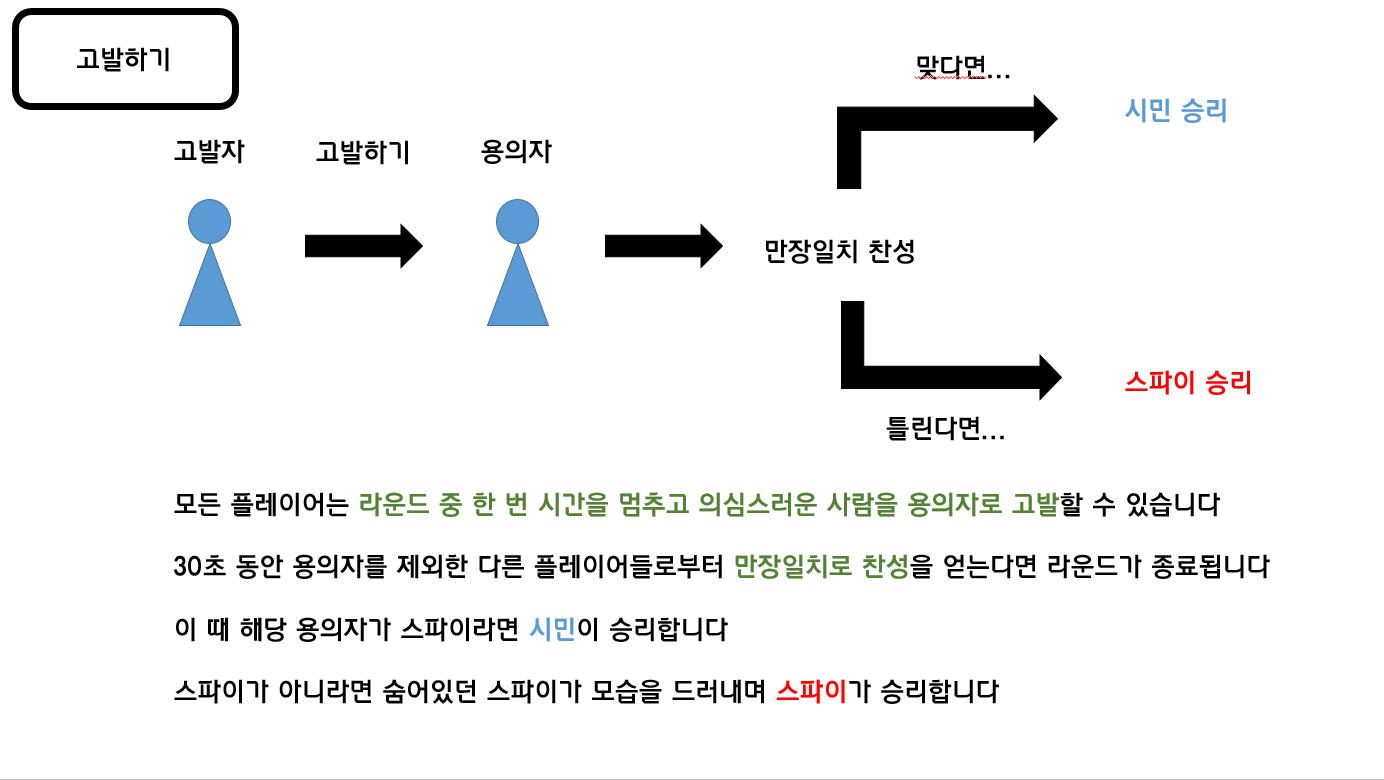
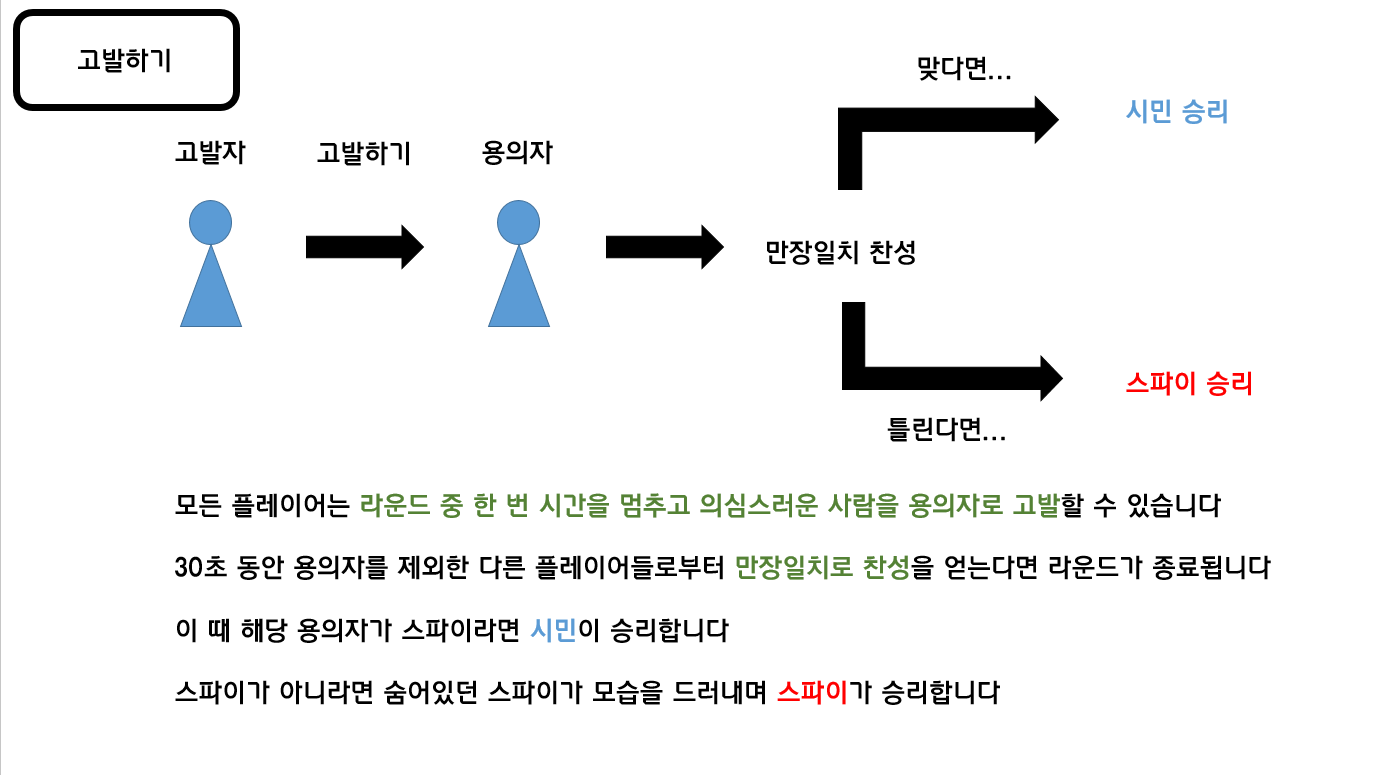
STYLE: 전체적인 style 변경

diff --git a/frontend/src/components/games/Spyfall.vue b/frontend/src/components/games/Spyfall.vue
@@ -81,27 +81,15 @@
                 <img src="../../assets/Spy.jpg" alt="spy">
               </div>
               <button class="paper-btn btn-secondary" color="primary" style="width:100%" @click="spyfall" v-if="isSpy" popover-right="장소를 추리하여 게임을 끝냅니다">스파이폴</button>
-              <!-- <button @click="testclick">div 활성화 버튼</button>
-              <div class="row flex-spaces" >                 
-                <input class="alert-state" id="alert-1" type="checkbox">
-                <div id="testalert" class="alert alert-secondary dismissible" style="display:none" >
-                  투표가 완료되었습니다.
-                  <label class="btn-close" for="alert-1">X</label>
-                </div>
-              </div> -->
-              
               <div>                
                 <v-dialog v-model="dialog" persistent max-width="1000px">
-                  <v-card>
-                    <v-card-title>
-                      <span class="text-h5">누가 스파이일까요?</span>
-                    </v-card-title>              
+                  <v-card>         
                       <v-container class="vote">
                         <v-row class="vote_row">
                           <v-col cols="12">
                           </v-col>
                           <v-col cols="5" class="prosecutor">
-                          <div class="video_name"><div class="alert alert-secondary">고발자</div></div>
+                          <div class="video_name"><div class="alert alert-secondary" popover-top="용의자를 고발하였습니다">고발자</div></div>
                           <div v-if="selectPlayer" class="child-borders">
                             <ov-video :stream-manager="selectPlayer"/>
                           </div>
@@ -113,7 +101,7 @@
                         </div>                      
                         </v-col>
                         <v-col cols="5" class="suspect">      
-                          <div class="video_name"><div class="alert alert-danger">용의자</div></div>                  
+                          <div class="video_name"><div class="alert alert-danger" popover-top="용의자로 선택되었습니다">용의자</div></div>                  
                           <div v-if="votePlayer" class="child-borders">
                             <ov-video :stream-manager="votePlayer"/>
                           </div>
@@ -144,7 +132,21 @@
                     </v-container> 
                   </v-card>
                 </v-dialog>
-              </div>             
+                </div>  
+                <button class="paper-btn btn-success" @click="openinfo = true" style="width:100%; margin-top:20px">게임설명</button>
+                <v-dialog class="infodialog"
+                  v-model="openinfo"
+                  persistent
+                  max-width="750px"                 
+                >
+                  <v-card  class="scrollx" height="500px" style="padding-right:10px">   
+                    <img src="@/assets/description_image/spyfall/스파이폴설명1.png" alt="">
+                    <img src="@/assets/description_image/spyfall/스파이폴설명2.png" alt="">
+                    <img src="@/assets/description_image/spyfall/스파이폴설명3.png" alt="">
+                    <img src="@/assets/description_image/spyfall/스파이폴설명4.png" alt="">
+                    <button class="paper-btn btn-success" style="align-self:center" @click="openinfo = false">닫기</button>
+                  </v-card>
+                </v-dialog>
             </v-col>
           </v-row>
         </v-container>
@@ -170,7 +172,7 @@ export default {
       job: null,
       place: null,
       placeSrc: null,
-      MMSS: new Date(this.timerCount*1000).toISOString().substr(14, 5),
+
       timerEnabled: true,
       timerCount: 30,
       votetimeCnt: 30,
@@ -186,7 +188,10 @@ export default {
       isSpy: false,
       // spyName: null,
       spyPlayer : null,
-      // dialog : false,
+      openinfo: false,
+      desc: [
+          "p1","p2","p3", "p4"
+        ],
 		}
 	},
 
@@ -199,7 +204,7 @@ export default {
   components: {
 		OvVideo,
     SpyfallEnd,
-    SpyfallStart
+    SpyfallStart,
 	},
 	computed: {
 		...mapState([
@@ -222,6 +227,9 @@ export default {
       }
       return null
     },
+    MMSS () {
+      return new Date(this.timerCount*1000).toISOString().substr(14, 5)      
+    }
 	},
 
 	methods: {
@@ -561,7 +569,6 @@ video {
     padding: 10px;
     width: 100%;
     font-size: 20px;
-    font-family: 'Patrick Hand SC';
     text-align: center;
     height: 52px;
     margin: 0;
@@ -762,5 +769,23 @@ video {
 
 #time_cnt {
   text-align: center;
+}
+
+.scrollx {
+  overflow: scroll;
+  /* IE scroll 숨김 */
+  -ms-overflow-style: none;
+  position: relative;
+}
+
+.scrollx::-webkit-scrollbar { 
+  width: 0 !important;
+  display: none; 
+}
+.scrollx  button {
+width: 70px;
+position: relative;
+top: 0;
+left: 92%;
 }
 </style>

diff --git a/frontend/src/components/descriptions/SpyfallDescription.vue b/frontend/src/components/descriptions/SpyfallDescription.vue
@@ -1,8 +1,10 @@
 <template>
-  <v-carousel v-model="model">
+  <v-carousel hide-delimiters v-model="model" 
+  :show-arrows="true"
+  class="SpyfallInfo border" height="567px">
     <v-carousel-item
       v-for="(num, i) in desc"
-      :key="num"
+      :key="num"      
     >
         <v-row
           class="fill-height"
@@ -10,10 +12,9 @@
           justify="center"
         >
           <div>
-            <img :src="require(`@/assets/description_image/spyfall/` + `스파이폴설명`+(i+1)+`.png`)" width="100%"/>
+            <img :src="require(`@/assets/description_image/spyfall/` + `스파이폴설명`+(i+1)+`.png`)" class="spyfallinfoimg"/>
           </div>
         </v-row>
-
     </v-carousel-item>
   </v-carousel>
 </template>
@@ -23,17 +24,9 @@ export default {
   name: "SpyfallDescription",
   data () {
       return {
-        colors: [
-          'white',
-          'white',
-          'white',
-          'white',
-          'white',
-          'white',
-        ],
         model: 0,
         desc: [
-          "p1","p2","p3"
+          "p1","p2","p3", "p4"
         ],
       }
     },
@@ -44,6 +37,19 @@ export default {
 }
 </script>
 
-<style>
-
+<style scoped>
+.SpyfallInfo {
+  border-bottom-left-radius: 15px 255px;
+    border-bottom-right-radius: 225px 15px;
+    border-top-left-radius: 23px 15px;
+    border-top-right-radius: 15px 225px;
+}
+.spyfallinfoimg {
+  height: 567px;
+  margin-left: 10px;
+  margin-top: 5px;
+  border: 0;
+  border-radius: 0;
+  border-top-left-radius: 22px 15px;      
+}
 </style>

diff --git a/frontend/src/components/Video/UserVideo.vue b/frontend/src/components/Video/UserVideo.vue
@@ -3,6 +3,7 @@
 	<div v-if="streamManager" style="display: flex; align-items: center;" class="video_div child-borders">
 		<!-- <ov-video :stream-manager="streamManager" v-if="answerPlayer != streamManager && questionPlayer != streamManager && firstQuestionPlayer != streamManager"/> -->
 		<ov-video :stream-manager="streamManager"/>
+		<div class="pname"><p>{{ clientData }}</p></div>
 		<div v-if="gameSelected == 'Spyfall' && start" class="btn1"><button class="paper-btn" @click="answerSelect" :disabled="isMyself || !(isAnswerPlayer || isFirstQuestionPlayer) || isQuestionPlayer" popover-top="질문할 사람을 선택하세요">지목하기</button></div>
 		<div v-if="gameSelected == 'Spyfall' && start" class="btn2" ><button class="paper-btn" @click="voteSelect" :disabled="isMyself || voteClick" popover-bottom="스파이로 의심되는 사람을 선택하세요">투표하기</button></div>
 		<div v-if="ready" style="border:0"><button class="btn3 paper-btn btn-success">READY!</button></div>
@@ -197,6 +198,18 @@ export default {
 	position: relative;
 }
 
+.video_div p {
+	position:absolute;
+	left: 40%;
+	bottom: 0;
+	margin: 0;
+	background-color: black;
+	color: white;
+	padding: 1px;
+}
+.video_div .pname {
+	border: 0;
+}
 .video_div .btn1 {
 	position: absolute;
 	top: 20%;

diff --git a/frontend/src/components/games/SpyfallStart.vue b/frontend/src/components/games/SpyfallStart.vue
@@ -50,14 +50,14 @@ export default {
 	},
 
   mounted() {
-    // if(this.isRoomMaker) {
-    // setTimeout(() => {
-    //     const ramdomquestionplayerdata = this.session.streamManagers[Math.floor(Math.random() * this.session.streamManagers.length)]
-    //     const firstquestionplayerdata = JSON.parse(ramdomquestionplayerdata.stream.connection.data)
-    //     this.sendMessageToEveryBody(JSON.stringify(firstquestionplayerdata), 'setFirstQuestionPlayer')
-    //     this.$store.commit("SET_FIRSTQUESTIONPLAYER", ramdomquestionplayerdata)
-    //     }, 5000);
-    // }    
+    if(this.isRoomMaker) {
+    setTimeout(() => {
+        const ramdomquestionplayerdata = this.session.streamManagers[Math.floor(Math.random() * this.session.streamManagers.length)]
+        const firstquestionplayerdata = JSON.parse(ramdomquestionplayerdata.stream.connection.data)
+        this.sendMessageToEveryBody(JSON.stringify(firstquestionplayerdata), 'setFirstQuestionPlayer')
+        this.$store.commit("SET_FIRSTQUESTIONPLAYER", ramdomquestionplayerdata)
+        }, 5000);
+    }    
   },
 
   methods: {

diff --git a/frontend/src/views/Room.vue b/frontend/src/views/Room.vue
@@ -46,7 +46,7 @@
                 </v-col>
               </v-col>              
             </v-row>
-            <div class="gameInfo">게임설명 <!--게임설명-->
+            <div class="gameInfo border"> <!--게임설명-->
             <span v-if="gameSelected == 'Spyfall'">
               <spyfallDescription :gameSelected="gameSelected"></spyfallDescription>
             </span>
@@ -120,8 +120,8 @@ export default {
     },
 
     isReadyToStart() {
-      if (this.readyList.length == (this.subscribers.length - 1)) {
-      // if (this.readyList.length == 1) {
+      // if (this.readyList.length == (this.subscribers.length - 1)) {
+      if (this.readyList.length == 1) {
         return true;
       }
       return false;
@@ -287,8 +287,13 @@ export default {
   flex-direction: column;
 }
 
-.gameInfo{
-  height: 560px;
+.gameInfo {
+  margin-top: 10px;
+  height: 570px;
+  border-bottom-left-radius: 15px 255px;
+  border-bottom-right-radius: 225px 15px;
+  border-top-left-radius: 21px 12px;
+  border-top-right-radius: 15px 225px;
 }
 
 

diff --git a/frontend/src/store/index.js b/frontend/src/store/index.js
@@ -28,7 +28,7 @@ export default new Vuex.Store({
     mySessionId: '',
     myUserName: '',
 		isRoomMaker: localStorage.getItem('isRoomMaker') === 'true',
-
+		sendUserEmail: ''
   },
 
   mutations: {
@@ -124,10 +124,12 @@ export default new Vuex.Store({
 			state.session.off('signal:voteFalse')
 			state.session.off('signal:spyfall')
 			state.session.off('signal:restart')
-		
+		},
 
+		SET_SENDUSEREMAIL: function(state, value) {
+			state.sendUserEmail = value
 		}
-  },
+  },	
 
   actions: {
     joinSession: function ({ commit, dispatch, state}, data) {

diff --git a/frontend/public/paper.css b/frontend/public/paper.css
@@ -1018,7 +1018,7 @@ h6 {
 img {
   border-bottom-left-radius: 15px 255px;
   border-bottom-right-radius: 225px 15px;
-  border-top-left-radius: 255px 15px;
+  border-top-left-radius: 23px 15px;
   border-top-right-radius: 15px 225px;
   border-color: #41403e;
   border-color: var(--primary);
@@ -1027,6 +1027,7 @@ img {
   display: block;
   height: auto;
   max-width: 100%;
+  border-style: solid;
 }
 img.float-left {
   float: left;

diff --git a/frontend/src/components/games/SpyfallEnd.vue b/frontend/src/components/games/SpyfallEnd.vue
@@ -106,7 +106,8 @@ export default {
       "spyWin",
       "citizenWin",
       "isRoomMaker",
-      "myUserName"
+      "myUserName",
+      "sendUserEmail"
     ])
   },
   mounted() {
@@ -173,6 +174,7 @@ export default {
   methods: {
     leaveRoom() {
       this.$store.dispatch('leaveSession')
+      this.$router.push({name:'Lobby', params: { sendUserEmail: this.sendUserEmail}})
     },
 
     backToRoom() {

diff --git a/frontend/src/views/Lobby.vue b/frontend/src/views/Lobby.vue
@@ -152,6 +152,7 @@ export default {
 		},
 		getUserData() {
 			this.sendUserEmail = this.$route.params.sendUserEmail
+			this.$store.commit("SET_SENDUSEREMAIL", this.sendUserEmail)
 			axios({
 					method:'POST',
 					url: '/api/login/sendUser',

diff --git a/frontend/src/components/Preview.vue b/frontend/src/components/Preview.vue
@@ -49,7 +49,7 @@ export default {
   name: "Preview",
   props: {
     joinCode: String,
-    myUserName: String
+    myUserName: String,
   },
   data: function () {
     return {
